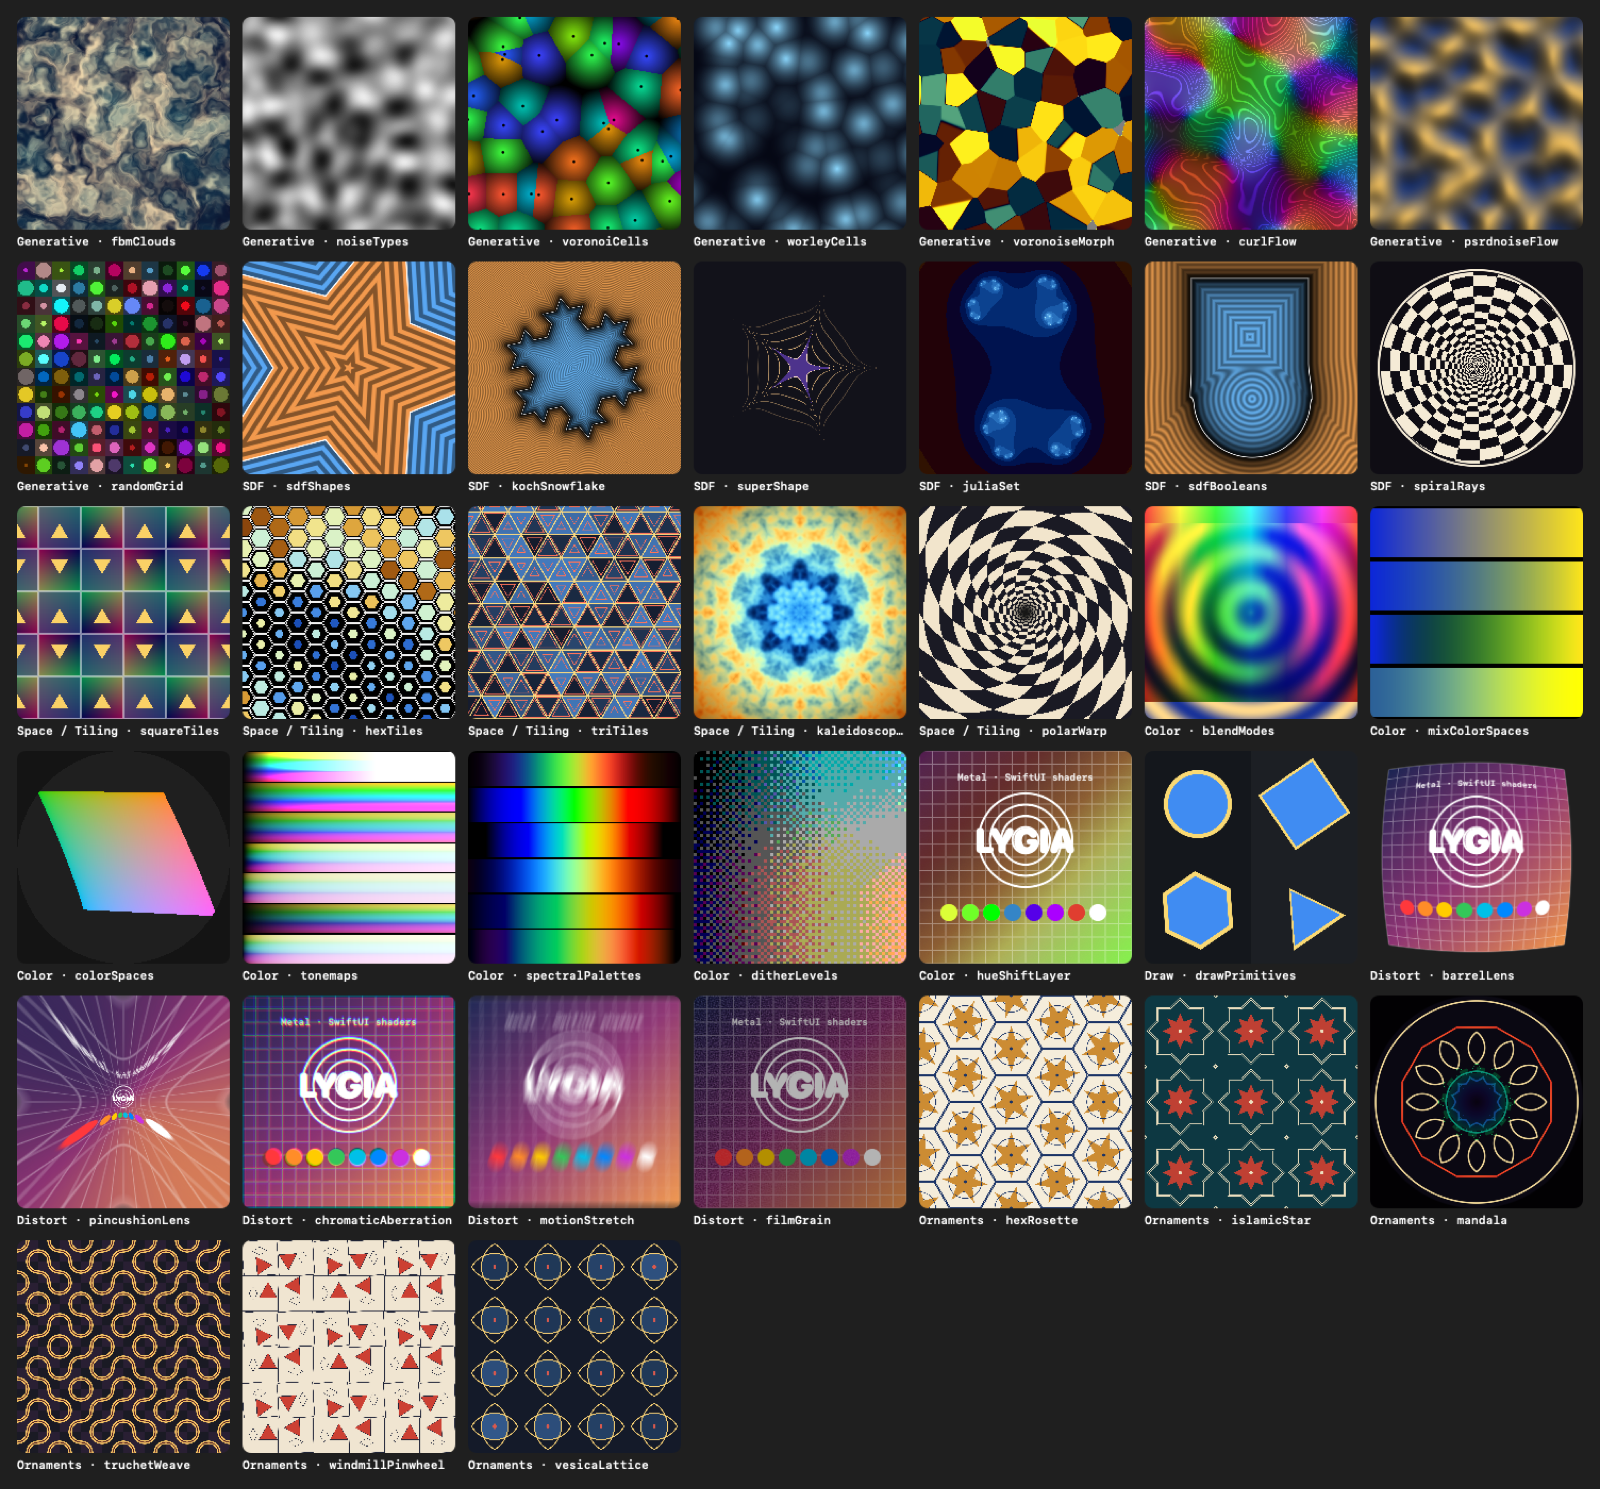
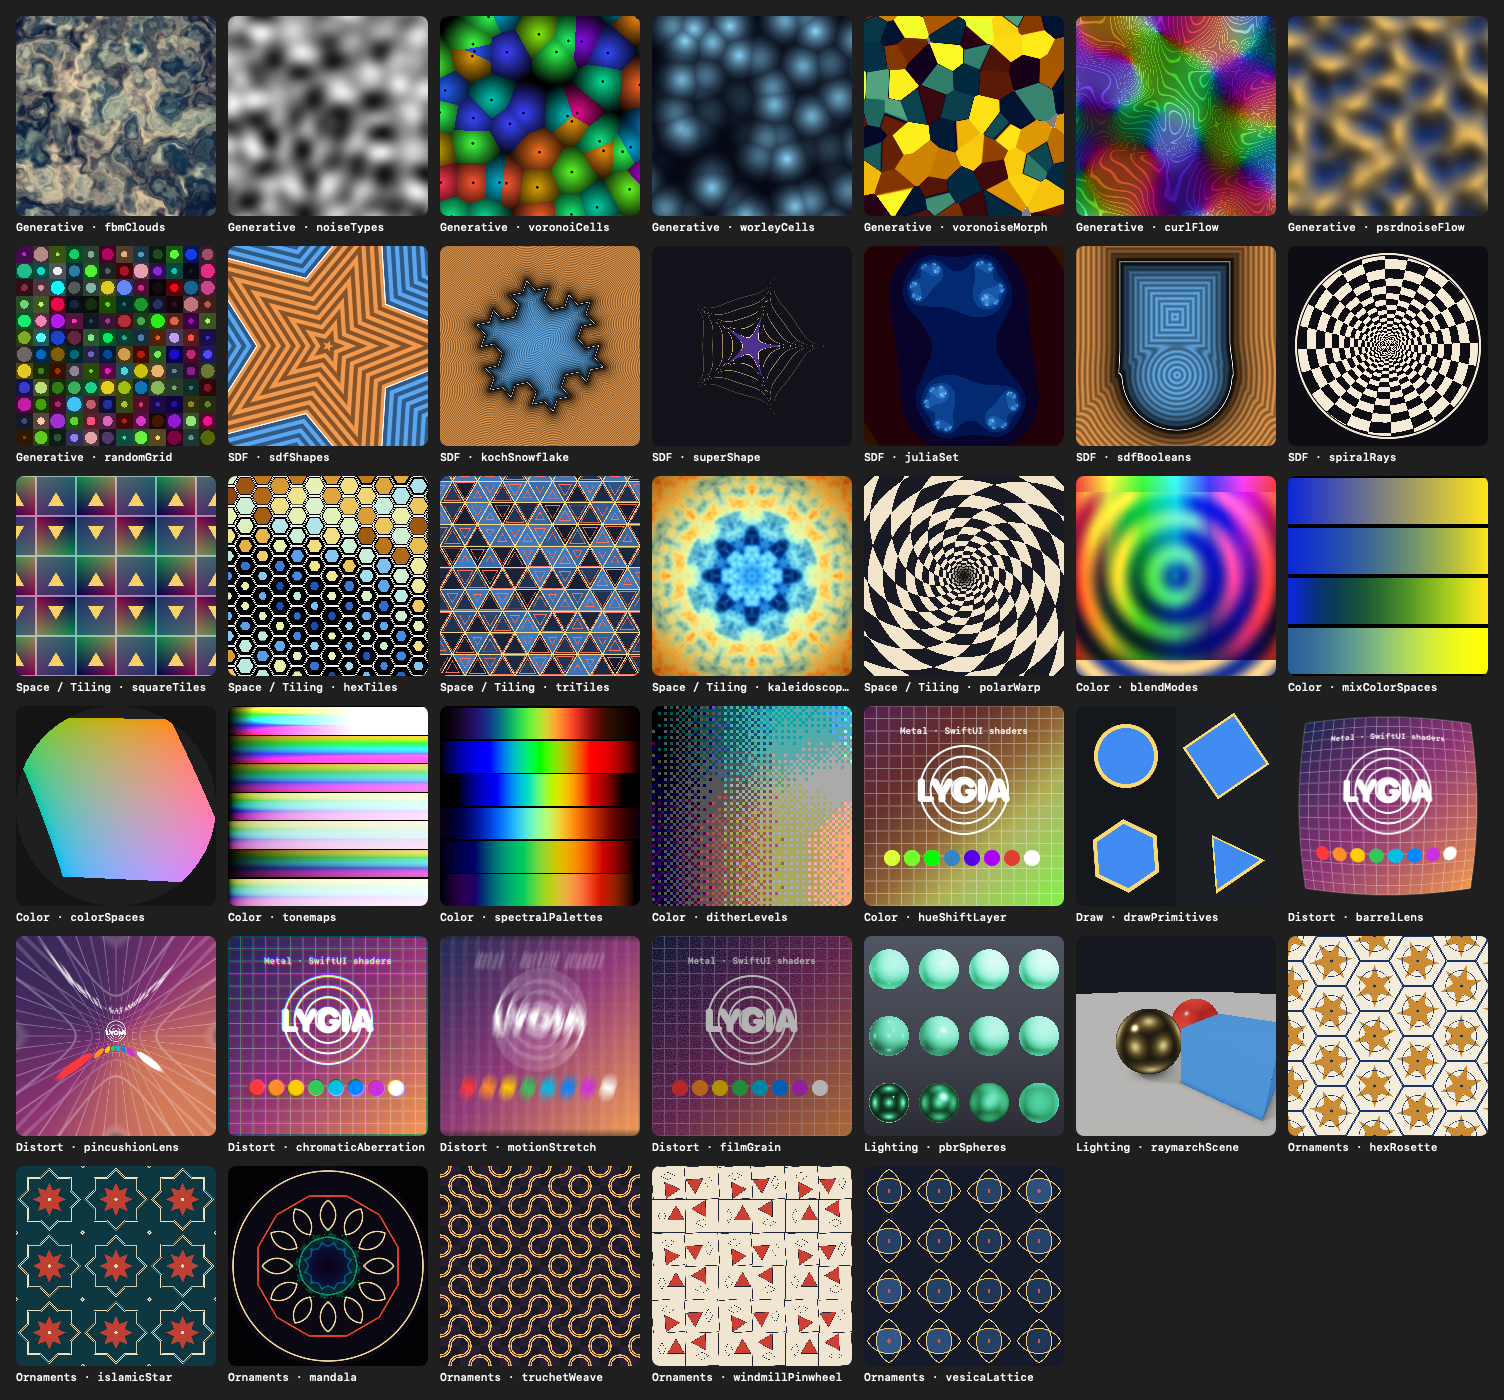
Update the README: all 40 demos image, tested Xcode version

diff --git a/README.md b/README.md
@@ -16,9 +16,15 @@ A SwiftUI app for browsing the Metal port of the [LYGIA shader library](https://
 |---|---|
 | <img src="docs/iphone.png" alt="Khatam stars on iPhone" width="240"> | <img src="docs/immersive.png" alt="Immersive scene in the visionOS simulator" width="560"> |
 
+<details><summary>All 40 demos</summary>
+
+![All 40 demos](docs/all-demos.png)
+
+</details>
+
 ## Build
 
-Requires Xcode 26+ and [XcodeGen](https://github.com/yonaskolb/XcodeGen).
+Built and tested with Xcode 27 and [XcodeGen](https://github.com/yonaskolb/XcodeGen).
 
 ```sh
 git clone --recursive https://github.com/elkraneo/lygia-metal-viewer.git
